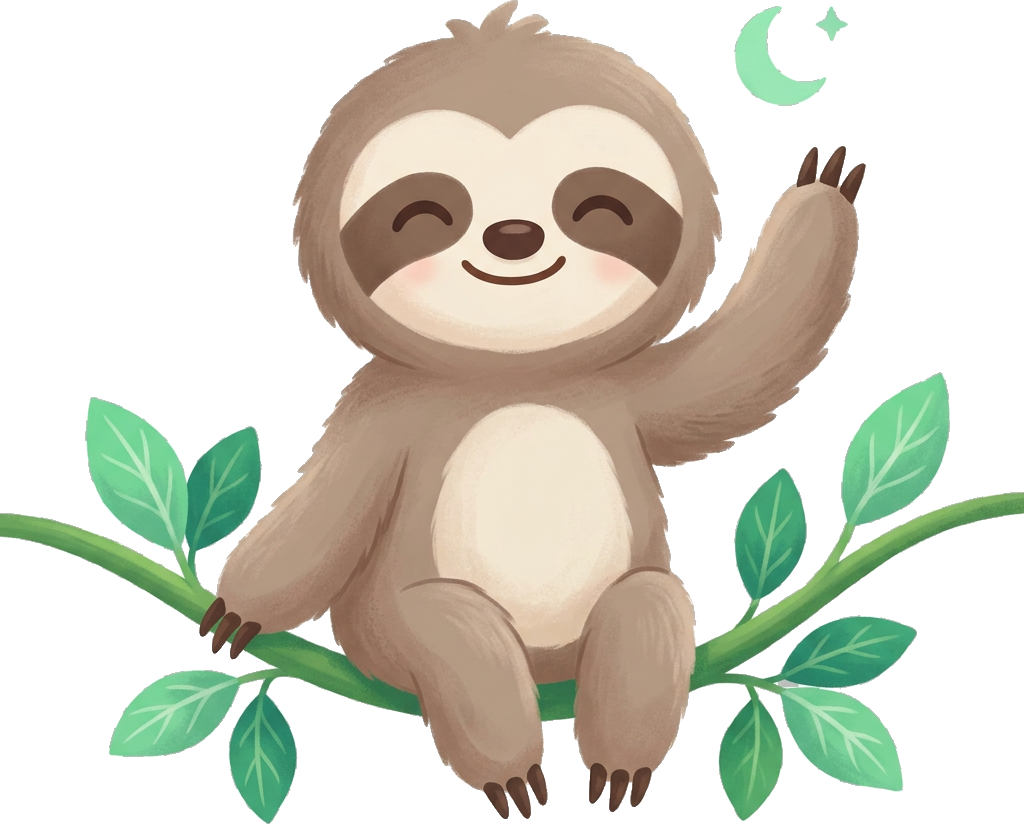
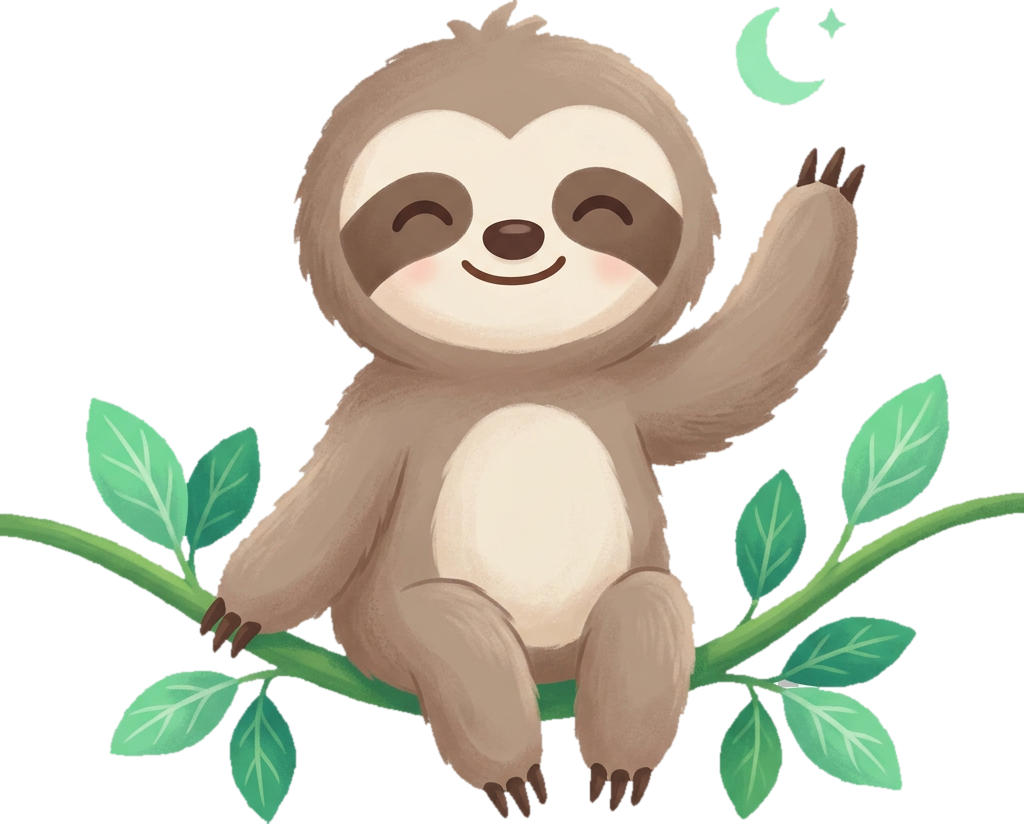
Art: clean sloth edges, no white halo or specks, shrunk smoothly everywhere
- All nine sloths: light edge pixels left by the background remover take the colour just
  inside, leftover white specks next to the see-through area are removed, edge softened.
- Installer side picture and the app's sloth cards shrink the picture by area averaging
  first (drawing 1024 px straight into ~100-180 px skipped pixels and left light specks).
- Starter bloom sloths use whole-number shrinks (1/2, 1/3) so fur stays clean on stream.
- tests/test_art_edges.py fails if a whitish halo comes back.

Claude-Session: https://claude.ai/code/session_01MjoQ7wuzCM4s3vzLRRyzDm

diff --git a/src/sprigcast/app/empty.py b/src/sprigcast/app/empty.py
@@ -9,7 +9,7 @@ from __future__ import annotations
 from collections.abc import Callable
 from pathlib import Path
 
-from PySide6.QtCore import QRectF, QSize, Qt
+from PySide6.QtCore import QPointF, QRectF, QSize, Qt
 from PySide6.QtGui import QPainter, QPixmap
 from PySide6.QtWidgets import QLabel, QPushButton, QSizePolicy, QVBoxLayout, QWidget
 
@@ -58,11 +58,24 @@ class ArtPicture(QWidget):
         if picture.isNull():
             return
         p = QPainter(self)
-        p.setRenderHint(QPainter.RenderHint.SmoothPixmapTransform)
         size = picture.size().scaled(self.size(), Qt.AspectRatioMode.KeepAspectRatio)
         x, y = (self.width() - size.width()) / 2, (self.height() - size.height()) / 2
-        p.drawPixmap(QRectF(x, y, size.width(), size.height()), picture, QRectF(picture.rect()))
+        p.drawPixmap(QPointF(x, y), self._shrunk(picture, size))
         p.end()
+
+    def _shrunk(self, picture: QPixmap, size) -> QPixmap:
+        """The picture shrunk once, by area averaging, to the pixels it covers on this screen.
+
+        Drawing a 1024 px picture straight into ~100 px skips pixels and leaves light specks in the fur."""
+        ratio = self.devicePixelRatioF()
+        key = (self.name, size.width(), size.height(), ratio)
+        if getattr(self, "_cache_key", None) != key:
+            self._cache = picture.scaled(round(size.width() * ratio), round(size.height() * ratio),
+                                         Qt.AspectRatioMode.IgnoreAspectRatio,
+                                         Qt.TransformationMode.SmoothTransformation)
+            self._cache.setDevicePixelRatio(ratio)
+            self._cache_key = key
+        return self._cache
 
 
 class NappingSloth(ArtPicture):

diff --git a/tests/test_art_edges.py b/tests/test_art_edges.py
@@ -1,0 +1,27 @@
+"""The sloth pictures blend on the dark theme: no light halo or leftover background specks on their edges."""
+
+from pathlib import Path
+
+import numpy as np
+import pytest
+
+ART = Path(__file__).resolve().parents[1] / "src" / "sprigcast" / "app" / "art"
+BRAND = Path(__file__).resolve().parents[1] / "brand" / "art"
+
+
+@pytest.mark.parametrize("path", sorted(ART.glob("sloth-*.png")) + sorted(BRAND.glob("sloth-*.png")),
+                         ids=lambda p: f"{p.parent.name}/{p.name}")
+def test_no_white_fringe(path):
+    from PIL import Image
+
+    a = np.asarray(Image.open(path).convert("RGBA")).astype(np.int16)
+    seen = a[..., 3] > 0
+    clear = np.pad(~seen, 2, constant_values=True)
+    near = np.zeros_like(seen)
+    for dy in range(-2, 3):
+        for dx in range(-2, 3):
+            near |= clear[2 + dy:2 + dy + seen.shape[0], 2 + dx:2 + dx + seen.shape[1]]
+    edge = seen & near  # the outermost 2 px of the picture
+    mx, mn = a[..., :3].max(2), a[..., :3].min(2)
+    white = edge & (mn > 210) & (mx - mn < 30)
+    assert white.sum() <= edge.sum() * 0.01, f"{white.sum()} whitish edge pixels"  # a cup or steam may be white

diff --git a/src/sprigcast/app/starter.py b/src/sprigcast/app/starter.py
@@ -12,6 +12,7 @@ with a camera, and adds the mic and desktop sound once (sound plays in every blo
 
 from __future__ import annotations
 
+import math
 from dataclasses import dataclass, field
 
 from PySide6.QtCore import Qt
@@ -169,6 +170,13 @@ def _sloth_item(collection: SceneCollection, pictures: dict[str, SourceConfig], 
     else:
         scale = min(1.0, canvas.width * 0.6 / w, canvas.height * 0.3 / h)  # fits between the title and the bottom
         x, y = (canvas.width - w * scale) / 2, canvas.height * 0.62
+    if scale < 1.0:  # 1/2, 1/3...: each screen pixel then blends whole picture pixels, so the fur stays clean
+        whole = 1.0 / math.ceil(1.0 / scale)
+        if canvas.width >= canvas.height:
+            x, y = x + w * (scale - whole), y + h * (scale - whole)  # keep the bottom-right corner
+        else:
+            x = (canvas.width - w * whole) / 2
+        scale = whole
     return SceneItem(source=config.id, scale=scale, x=x, y=y)
 
 

diff --git a/packaging/make_wizard_images.py b/packaging/make_wizard_images.py
@@ -73,8 +73,11 @@ def _side(w: int, h: int):
     room = h - (top + 50 * s)  # below the name and line
     sh = min(room, w * 0.9 * picture.height() / max(1, picture.width()))
     sw = sh * picture.width() / max(1, picture.height())
-    p.setRenderHint(QPainter.RenderHint.SmoothPixmapTransform)
-    p.drawImage(QRectF((w - sw) / 2, h - sh, sw, sh), picture)
+    # Shrink with Qt's area-averaging scaler first: drawing a 1024 px picture straight into ~180 px
+    # skips pixels and leaves light specks in the fur.
+    small = picture.scaled(round(sw), round(sh), Qt.AspectRatioMode.IgnoreAspectRatio,
+                           Qt.TransformationMode.SmoothTransformation)
+    p.drawImage(QPointF((w - small.width()) / 2, h - small.height()), small)
     p.end()
     return image
 
